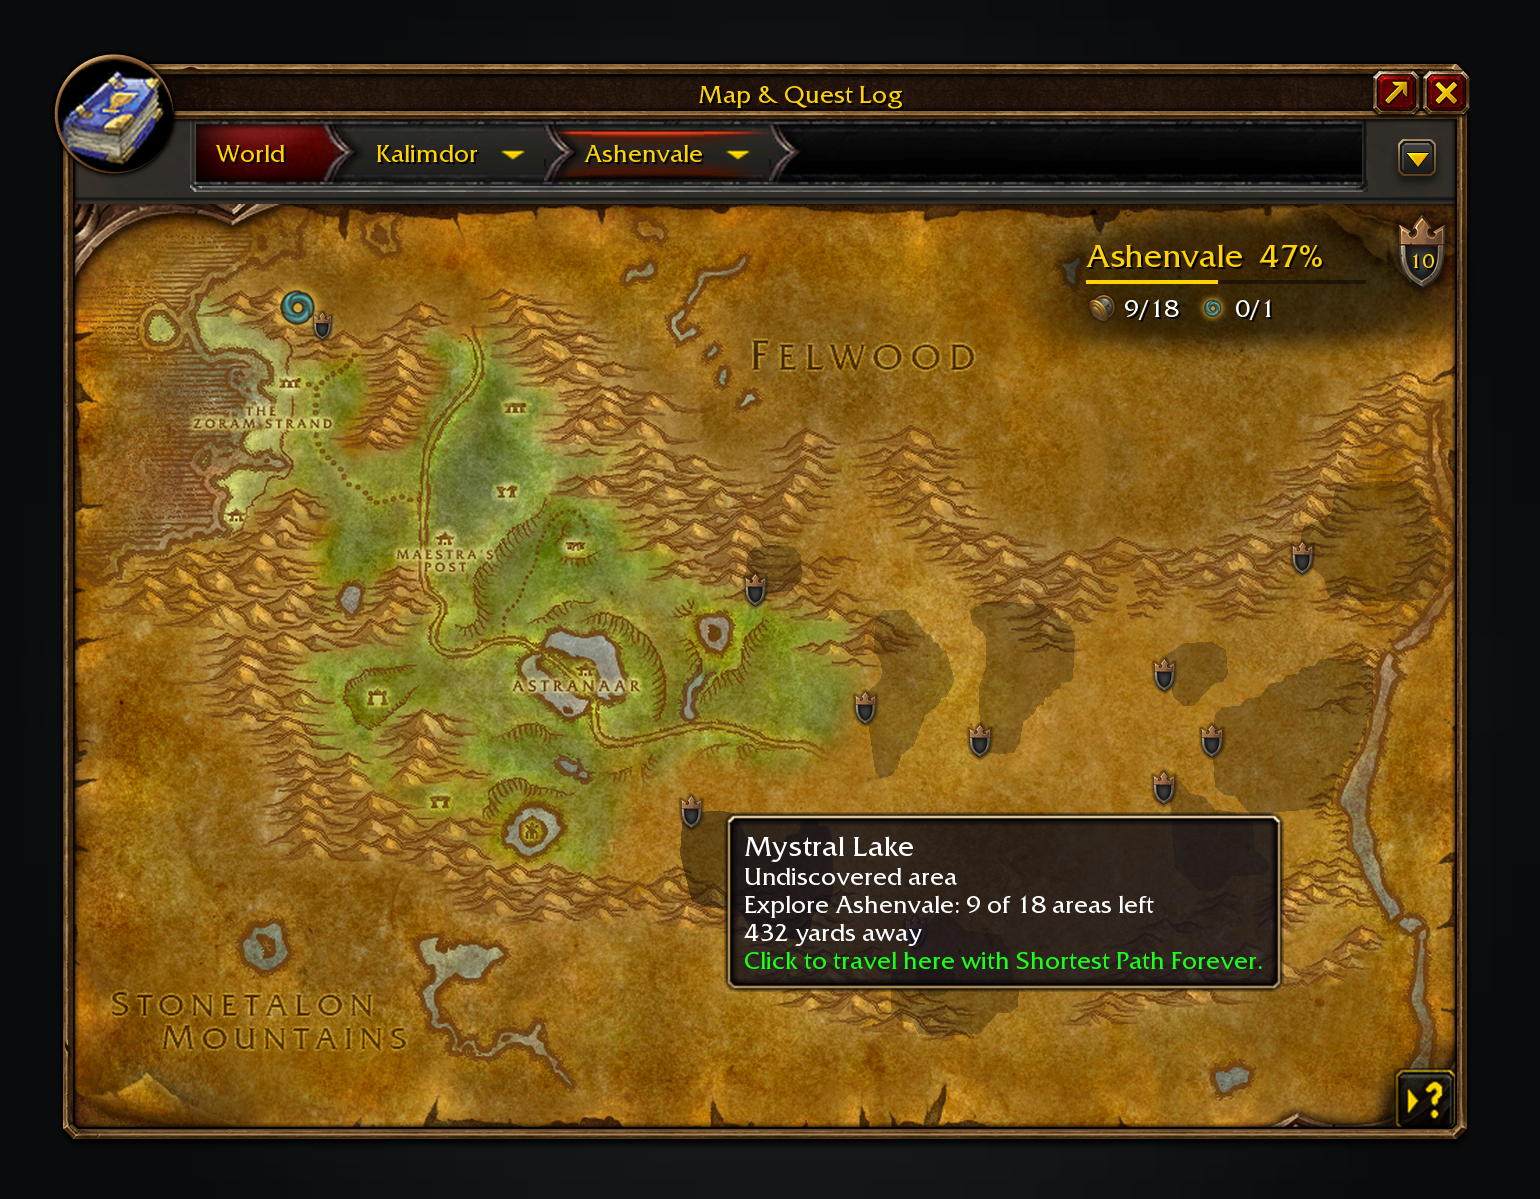
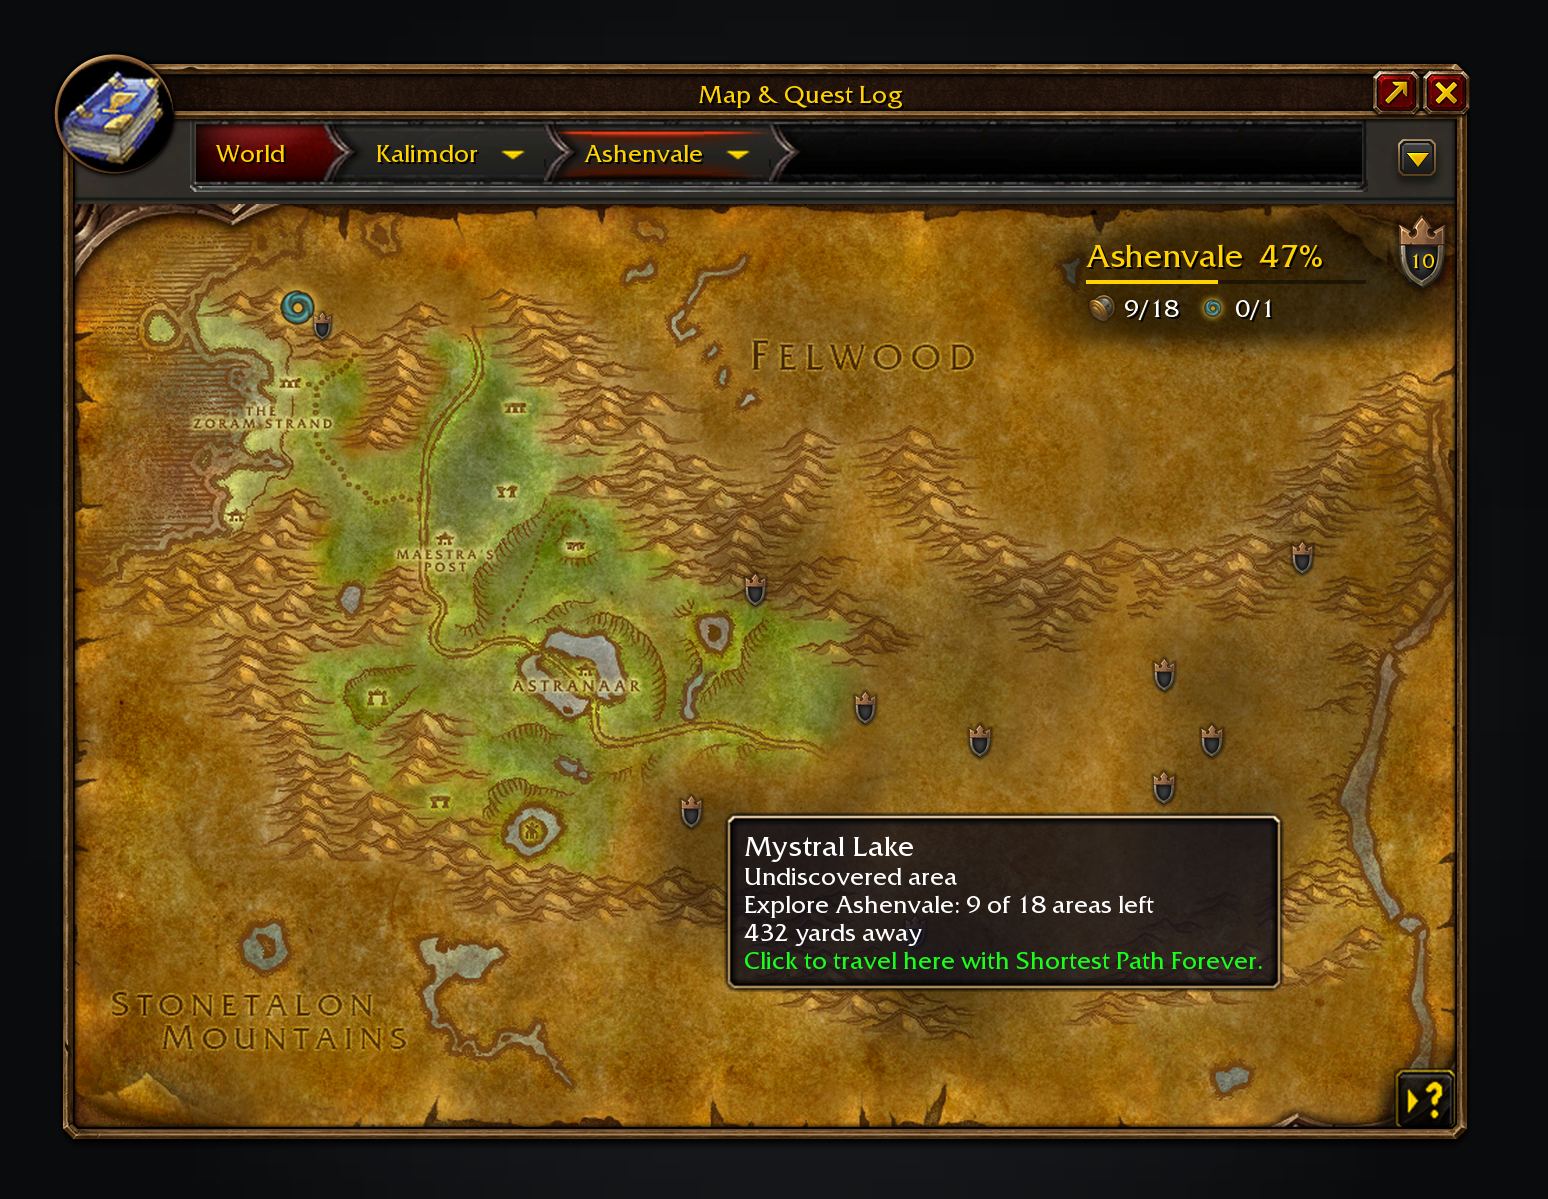
fix(map): fade the new shading out at the edge like the map-art shading
The terrain fill ended on a hard triangle edge, so a shaded area read as a
cut-out rather than the same shading the map art gives. Each ring edge now
gets a WHITE8X8 quad whose upper corners sit on the edge and whose lower ones
lie outward by FEATHER of the map's width, with a vertical gradient from the
shading's alpha at the edge to nothing outside. Measured against Blizzard's
exploration overlays across Ashenvale: full at the traced edge, half at 26 of
the 1002-pixel map art, nothing at a median 40, so FEATHER = 40/1002.

Winding decides which side is outside, so a ring wound either way feathers
outward, and hover and Leatrix's reveal brighten or clear the fill and its
feathers together. UI/Shading.lua takes the drawing from UI/Map.lua, which
keeps the pin, the tile shading and the hover.

Refs #474

diff --git a/tools/screenshots_outlines.py b/tools/screenshots_outlines.py
@@ -1,19 +1,22 @@
-"""AreaPin's terrain shading, drawn for the screenshots from the same values as the addon.
+"""The world map's terrain shading, drawn for the screenshots from the same values as the addon.
 
-UI/Map.lua AreaPin:Paint fills each undiscovered area's rings with triangles, a white texture tinted the shading's
-own black at AREA_ALPHA and brightened to AREA_HOVER_ALPHA under the mouse (MapContents.Triangles ear-clips each
-ring, whose triangles cover exactly the ring). This module fills each ring the same way and finds the pins and
-distances UI/MapContents.lua's OutlinePoint computes, so tools/screenshots.py can put them on the world map.
-Nothing here reads the client.
+UI/Shading.lua's Shading.Area, called by UI/Map.lua's AreaPin:Paint, fills each undiscovered area's rings with
+triangles, a white texture tinted the shading's own black at AREA_ALPHA and brightened to AREA_HOVER_ALPHA under the
+mouse (MapContents.Triangles ear-clips each ring, whose triangles cover exactly the ring), then feathers each ring
+edge outward over FEATHER of the map's width, fading from that alpha at the edge to nothing. This module fills and
+feathers each ring the same way and finds the pins and distances UI/MapContents.lua's OutlinePoint computes, so
+tools/screenshots.py can put them on the world map. Nothing here reads the client.
 """
 
 import math
 
-from PIL import Image, ImageDraw
+from PIL import Image, ImageChops, ImageDraw, ImageFilter
 
-# UI/Map.lua: AREA_ALPHA, AREA_HOVER_ALPHA.
+# UI/Map.lua: AREA_ALPHA, AREA_HOVER_ALPHA, FEATHER.
 AREA_ALPHA, AREA_HOVER_ALPHA = 0.25, 0.40
 SHADE_RGB = (0, 0, 0)
+# UI/Shading.lua's FEATHER: the share of the map's width the exploration overlay alpha takes to fall to nothing.
+FEATHER = 40 / 1002
 
 
 def outline_player(zone, name, art):
@@ -50,15 +53,28 @@ def outline_point(explore_zone, rings, player):
     return best[1], best[2], math.sqrt(best[0])
 
 
+def outward_ramp(mask, band):
+    """Just outside a filled mask, full at its edge and 0 `band` pixels out, as UI/Shading.lua's DrawFeather fades
+    a ring edge. Dilating one pixel at a time gives that distance band."""
+    ramp = Image.new("L", mask.size, 0)
+    grown = mask
+    for step in range(band):
+        outer = grown.filter(ImageFilter.MaxFilter(3))
+        ramp.paste(round(255 * (1 - (step + 1) / band)), ImageChops.subtract(outer, grown))
+        grown = outer
+    return ramp
+
+
 def outline_shading(canvas, rects, zone, explore_zone, live, hover):
-    """UI/Map.lua AreaPin:Paint: every outlined area's rings filled with the shading's black, each ring its own
-    fill, the hovered area's brightened as AreaPin:Highlight brightens its triangles. Returns the areas, so
-    world_map can pin and name them."""
+    """UI/Shading.lua's Shading.Area, called by UI/Map.lua's AreaPin:Paint: every outlined area's rings filled with the
+    shading's black and feathered outward from each edge, the hovered area's brightened as AreaPin:Highlight
+    brightens its fill and feathers. Returns the
+    areas, so world_map can pin and name them."""
     mx, my, mw, mh = rects["map"]
+    band = round(FEATHER * (canvas.px(mx + mw) - canvas.px(mx)))
     areas = outline_areas(zone, explore_zone, live)
     for area, rings in areas:
         alpha = AREA_HOVER_ALPHA if area["name"] == hover else AREA_ALPHA
-        fill = (*SHADE_RGB, round(alpha * 255))
         for ring in rings:
             points = [
                 (canvas.px(mx + ring[index] * mw), canvas.px(my + ring[index + 1] * mh))
@@ -66,7 +82,14 @@ def outline_shading(canvas, rects, zone, explore_zone, live, hover):
             ]
             if len(points) < 3:
                 continue
-            layer = Image.new("RGBA", canvas.image.size)
-            ImageDraw.Draw(layer).polygon(points, fill=fill)
-            canvas.image = Image.alpha_composite(canvas.image, layer)
+            left = max(0, min(x for x, _ in points) - band)
+            top = max(0, min(y for _, y in points) - band)
+            right = min(canvas.image.width, max(x for x, _ in points) + band + 1)
+            bottom = min(canvas.image.height, max(y for _, y in points) + band + 1)
+            mask = Image.new("L", (right - left, bottom - top), 0)
+            ImageDraw.Draw(mask).polygon([(x - left, y - top) for x, y in points], fill=255)
+            cover = ImageChops.lighter(mask, outward_ramp(mask, band))
+            layer = Image.new("RGBA", mask.size, (*SHADE_RGB, 0))
+            layer.putalpha(cover.point(lambda value, scale=alpha: round(value * scale)))
+            canvas.image.alpha_composite(layer, (left, top))
     return areas

diff --git a/tools/check_screenshots.py b/tools/check_screenshots.py
@@ -33,6 +33,7 @@ SOURCES = (
     "UI/Completion.xml",
     "media/Shade.tga",
     "UI/MapContents.lua",
+    "UI/Shading.lua",
     "UI/Map.lua",
     "Integrations/AtlasLoot.lua",
     "UI/Tracker.lua",

diff --git a/CHANGELOG.md b/CHANGELOG.md
@@ -14,7 +14,7 @@ optional `### For addon authors` subsection after a version's player bullets.
 
 ### Changed
 
-- **"Show where to discover areas" now shades each area instead of glowing along it.** Turned on, an area the game has terrain for is filled with the same dark shading as the rest of the map, only in its real shape rather than the map art's squares, and the shading fades out over the same soft edge the map's own shading has instead of stopping at a hard outline; it brightens under the mouse like any shaded area. The gold glow is gone; areas without terrain data keep their square shading, and the switch still starts off (#474).
+- **"Show where to discover areas" now shades each area instead of glowing along it.** Turned on, an area the game has terrain for is filled with the same dark shading as the rest of the map, only in its real shape rather than the map art's squares, its edge fading out over the same soft band as the map-art shading, and it brightens under the mouse like any shaded area. The gold glow is gone; areas without terrain data keep their square shading, and the switch still starts off (#474).
 
 ## [2.3.4] - 2026-11-11
 

diff --git a/.sloppatrol/instructions.md b/.sloppatrol/instructions.md
@@ -16,7 +16,7 @@ Things reached indirectly: none of them is dead code, even when no file calls it
 
 - `LegacyForever.toc` file list: load order `Locales/enUS.lua` (then any `Locales/<locale>.lua`), `Core/ForeverRequire.lua`,
   `Core/Require.lua`, `Data/Legacy.lua, Data/Explore.lua, Core, Art, Saved, WhatsNew, Model, Live, Quests, Navigate,
-  ZoneCompletion, Tracker, Completion, Settings, MapContents, UI/Map.xml, Map, API, Report`; never reorder as formatting.
+  ZoneCompletion, Tracker, Completion, Settings, MapContents, Shading, UI/Map.xml, Map, API, Report`; never reorder as formatting.
 - `## SavedVariables: LegacyForeverDB`: persisted keys `tracked`, `zoneCompletion`,
   `flightPaths`, `showAreas`, `showOutlines`, `showEntrances`, `whatsNew`, `lastVersion`, named only in `Core/Saved.lua`, and `suggestFamily` (default
   in `Core/Saved.lua`) and `familyDismissed`, which ForeverCore's family page also reads and writes through `ns.FamilyDB()`;
